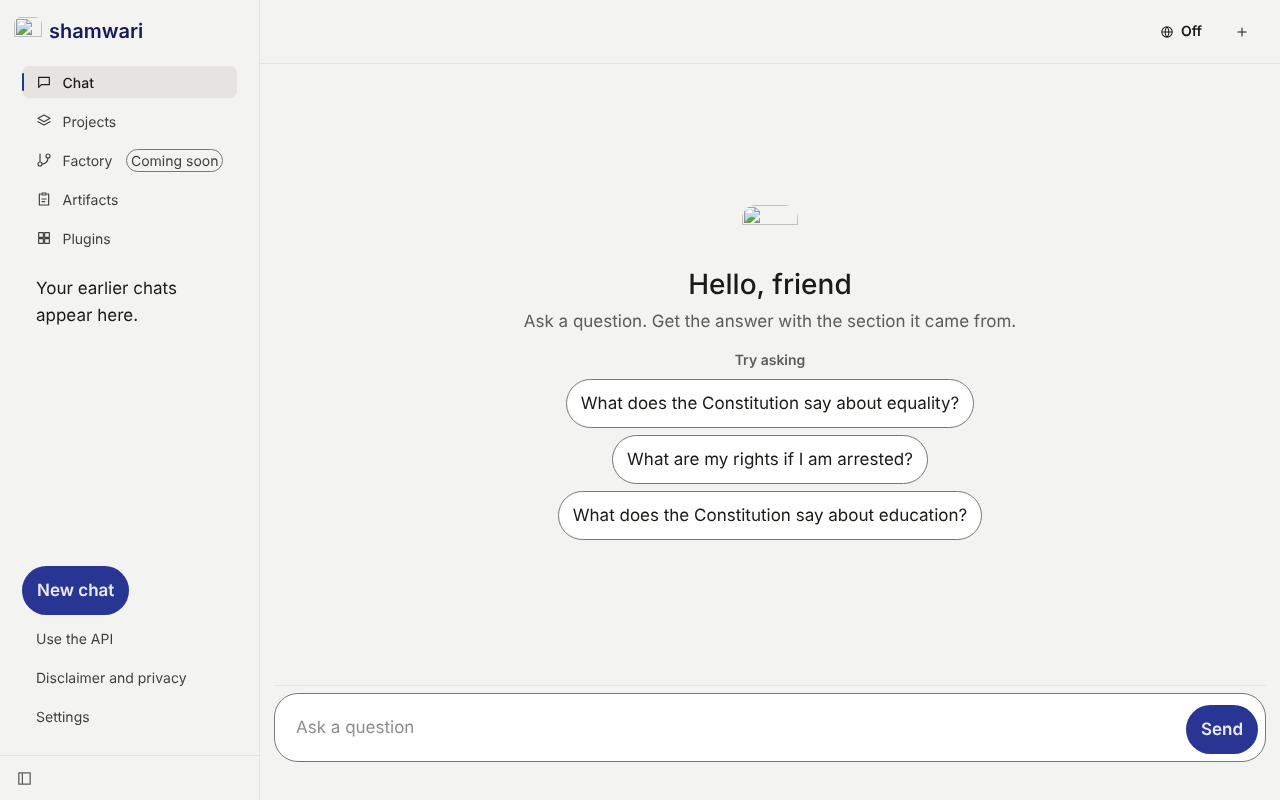
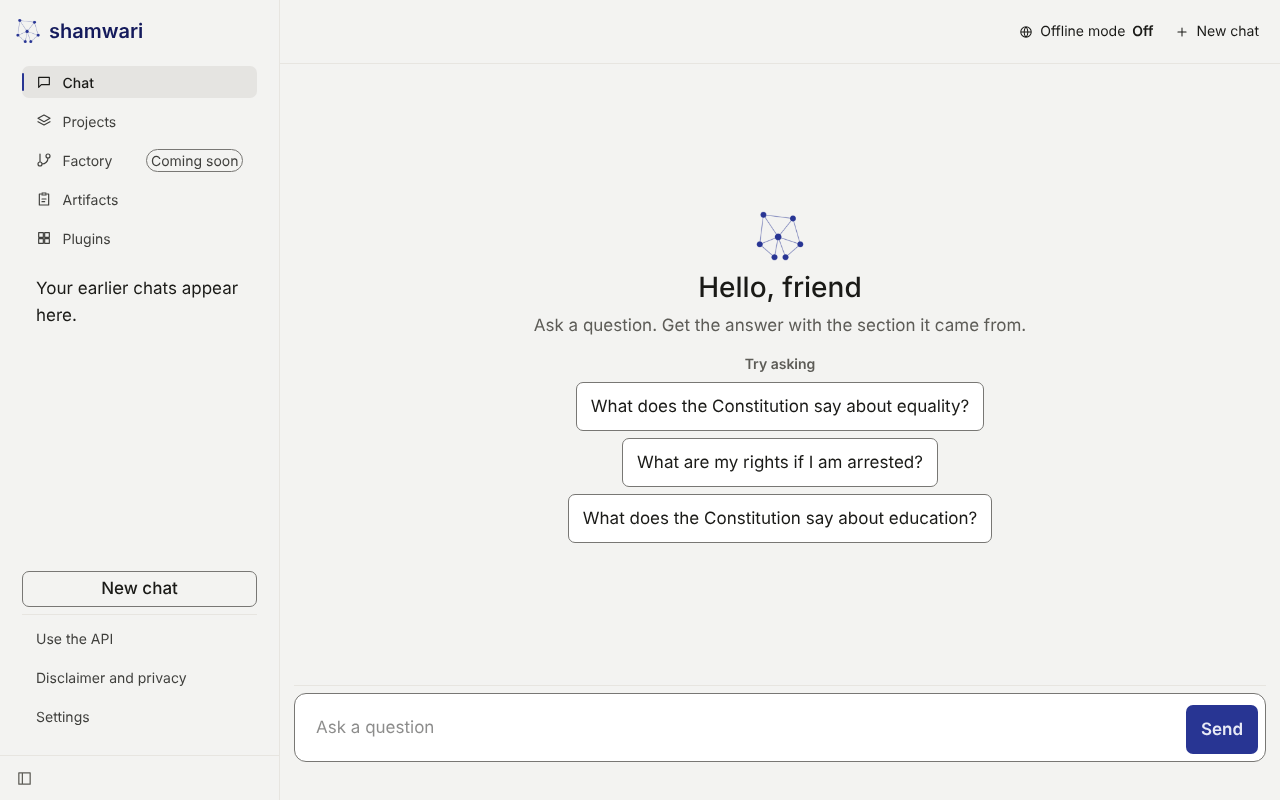
feat(lite): owner's drawer list: no mid-word wraps, fixed sidebar width, clutter into Settings, labelled top bar, small radius, quiet New chat
Rows wrap at spaces only and the Factory chip stays on one line; the sidebar is a 17.5rem column from 64rem; the version line and Install move into Settings; the top bar says Offline mode and New chat from 40rem (sr-only also clips with clip-path, which the override now clears); buttons, chips and the composer use the small radius; New chat is an outline, the foot rows sit under one hairline. Tests: no label wraps and no sideways scroll at 1000, 1280 and 1440 in light and dark, sidebar width, labels really drawn, no pills, hierarchy, clutter, muted text at 4.5:1 in both themes.

Claude-Session: https://claude.ai/code/session_0114U9k962C3ZtvAibSYjB7a

diff --git a/site/e2e-desktop/density.spec.ts b/site/e2e-desktop/density.spec.ts
@@ -71,3 +71,103 @@ for (const scheme of ['light', 'dark'] as const) {
     });
   });
 }
+
+// ---- the geometry guard: widths a desktop browser really has, light and dark ------------------------------------------------
+// No label wraps (a word is never broken, a chip stays on one line), nothing scrolls sideways, the sidebar is a fixed column wide
+// enough for its labels, the top bar's actions say what they are, and nothing is a marketing pill. At 1000px the drawer is a
+// popover (below 64rem) and keeps the touch size; from 1024px it is a column of 32px rows.
+
+/** How many lines a piece of text is drawn on: the number of distinct tops among its client rects. */
+const lines = (page: Page, selector: string) =>
+  page.locator(selector).evaluateAll((els) =>
+    els
+      .filter((e) => (e as HTMLElement).offsetParent !== null || getComputedStyle(e).position === 'fixed')
+      .map((e) => {
+        const range = document.createRange();
+        range.selectNodeContents(e);
+        const tops = new Set([...range.getClientRects()].filter((r) => r.width > 0).map((r) => Math.round(r.top)));
+        return { text: (e.textContent || '').trim().slice(0, 40), lines: tops.size };
+      }),
+  );
+
+for (const width of [1000, 1280, 1440]) {
+  for (const scheme of ['light', 'dark'] as const) {
+    test(`at ${width}px (${scheme}): no label wraps, nothing scrolls sideways, the sidebar and top bar are right`, async ({ page }) => {
+      await page.emulateMedia({ colorScheme: scheme });
+      await page.setViewportSize({ width, height: 800 });
+      await openChat(page);
+      const popover = width < 1024;
+      if (popover) await page.getByRole('button', { name: 'Open chats' }).click();
+      await page.waitForTimeout(400); // the drawer's slide
+
+      expect(await page.evaluate(() => document.documentElement.scrollWidth <= innerWidth + 1), 'no horizontal scroll').toBe(true);
+
+      // Every row label and chip is one line: "Factory" is not "Factor / y", "Coming soon" is not two lines.
+      // (the visible spans only: the screen-reader-only note on Use the API is clipped text, not a drawn line)
+      const labels = await lines(page, '.side-row > span:not(.sr-only)');
+      expect(labels.length).toBeGreaterThanOrEqual(8);
+      for (const l of labels) expect(l.lines, `"${l.text}" is on one line`).toBe(1);
+      const factory = await page.locator('.side-row.side-disabled').evaluate((el) => el.getBoundingClientRect().height);
+      expect(factory, 'the Factory row is one row high, chip included').toBeLessThanOrEqual(popover ? 50 : 33);
+
+      if (!popover) {
+        const w = await page.locator('[data-slot="app-sidebar"]').evaluate((el) => el.getBoundingClientRect().width);
+        expect(w, 'a fixed sidebar column of about 280px').toBeGreaterThanOrEqual(272);
+        expect(w).toBeLessThanOrEqual(288);
+      }
+      // The sidebar's own labels fit their rows without being cut (no horizontal overflow inside the drawer).
+      expect(await page.locator('.chats').evaluate((el) => el.scrollWidth <= el.clientWidth + 1), 'the drawer does not scroll sideways').toBe(true);
+
+      // The top bar says what its actions are (from 40rem up).
+      // Really drawn, not just present: a 1px clipped box counts as "visible" to Playwright, so measure the box and the clipping.
+      for (const sel of ['#offline-mode .bar-label', '#new-chat .bar-label']) {
+        const drawn = await page.locator(sel).evaluate((el) => {
+          const c = getComputedStyle(el);
+          const r = el.getBoundingClientRect();
+          return { w: r.width, h: r.height, clipPath: c.clipPath, overflow: c.overflow, clip: c.clip };
+        });
+        expect(drawn.w, `${sel} is drawn`).toBeGreaterThan(40);
+        expect(drawn.h, `${sel} is a line of text`).toBeGreaterThan(14);
+        expect(drawn.clipPath, `${sel} is not clipped away`).toBe('none');
+        expect(drawn.overflow).toBe('visible');
+      }
+      await expect(page.locator('#offline-mode')).toContainText('Offline mode');
+      await expect(page.locator('#offline-mode')).toContainText('Off');
+    });
+  }
+}
+
+test('no control is a marketing pill: buttons, suggestion chips, Send and New chat use the small radius', async ({ page }) => {
+  await openChat(page);
+  const radii = await page.evaluate(() => {
+    const r = (sel: string) => {
+      const el = document.querySelector(sel);
+      return el ? parseFloat(getComputedStyle(el).borderTopLeftRadius) : null;
+    };
+    return { newChat: r('#side-new'), send: r('#send'), chip: r('.btn.chip'), composer: r('.composer') };
+  });
+  for (const [name, v] of Object.entries(radii)) {
+    expect(v, name).not.toBeNull();
+    expect(v!, `${name} is not a pill`).toBeLessThanOrEqual(16);
+  }
+});
+
+test('hierarchy: New chat is a quiet outline, the composer is the filled control, the foot rows sit under one hairline', async ({ page }) => {
+  await openChat(page);
+  const bg = (sel: string) => page.locator(sel).first().evaluate((el) => getComputedStyle(el).backgroundColor);
+  expect(await bg('#side-new'), 'New chat has no fill').toBe('rgba(0, 0, 0, 0)');
+  expect(await bg('#send'), 'Send is the filled control').not.toBe('rgba(0, 0, 0, 0)');
+  const border = await page.locator('.side-nav').evaluate((el) => ({ w: parseFloat(getComputedStyle(el).borderTopWidth), s: getComputedStyle(el).borderTopStyle }));
+  expect(border.s).toBe('solid');
+  expect(border.w, 'one hairline').toBeGreaterThan(0);
+  expect(border.w).toBeLessThanOrEqual(1);
+});
+
+test('clutter is gone: the version line is in Settings (not the drawer foot) and Install is in Settings (not above the composer)', async ({ page }) => {
+  await openChat(page);
+  await expect(page.locator('.side-foot > .version-line')).toHaveCount(0);
+  await expect(page.locator('details.account .version-line')).toHaveCount(1);
+  await expect(page.locator('details.account #install')).toHaveCount(1);
+  await expect(page.locator('.thread #install, #empty #install')).toHaveCount(0);
+  await expect(page.locator('p.install')).toHaveCount(0);
+});

diff --git a/site/src/chat/chat.css b/site/src/chat/chat.css
@@ -45,8 +45,14 @@ body {
   z-index: 50;
   background: var(--card);
   padding: var(--inset-floor);
-  border-radius: 9999px;
+  border-radius: var(--radius-sm);
   min-height: var(--target-floor);
+}
+
+/* A fixed sidebar column on a desktop: wide enough for a 14px label such as "Disclaimer and privacy" on one line. (AppShell
+   defaults to 16.25rem, which wrapped "Factory" and its chip; claude.ai's is about the same as this.) */
+html [data-slot='app-shell'] {
+  --app-sidebar-w: 17.5rem;
 }
 
 /* ---- the frame's parts ------------------------------------------------------------------------------ */
@@ -207,7 +213,8 @@ select,
 input:not([type='checkbox']):not([type='radio']) {
   min-height: var(--target-floor);
   min-width: var(--target-floor);
-  border-radius: 9999px;
+  /* The small radius, as Mzizi's product controls have it: the pill is the marketing shape, not the app's. */
+  border-radius: var(--radius-sm);
   border: 1px solid var(--border-control, var(--border));
   background: var(--card);
   padding-inline: var(--inset-floor);
@@ -225,6 +232,19 @@ input:not([type='checkbox']):not([type='radio']) {
   white-space: nowrap;
 }
 /* The brand fill and its text come as a pair in both themes (Mzizi sodalite-brand / on-brand). */
+#side-new.btn.primary {
+  /* Hierarchy (deference): the drawer recedes and the composer is the one thing that is filled. New chat is a quiet
+     secondary button here: an outline, the foreground colour, no fill. */
+  background: transparent;
+  color: var(--foreground);
+  border: 1px solid var(--border-control, var(--border));
+  font-weight: 500;
+  min-height: var(--size-control);
+  inline-size: 100%;
+}
+#side-new.btn.primary:hover {
+  background: var(--muted);
+}
 .btn.primary {
   background: var(--color-sodalite-brand);
   color: var(--color-sodalite-on-brand);
@@ -381,7 +401,7 @@ input:not([type='checkbox']):not([type='radio']) {
   gap: var(--gap-floor);
   padding: var(--gap-floor) var(--gap-floor) var(--gap-floor) var(--inset-floor);
   border: 1px solid var(--border-control, var(--border));
-  border-radius: 24px;
+  border-radius: var(--radius-md);
   background: var(--card);
 }
 .composer textarea {
@@ -392,7 +412,7 @@ input:not([type='checkbox']):not([type='radio']) {
   border: 0;
   background: transparent;
   padding: var(--inset-floor) var(--gap-floor);
-  border-radius: 24px;
+  border-radius: var(--radius-md);
   line-height: var(--leading-floor);
 }
 .toast {
@@ -598,6 +618,9 @@ input:not([type='checkbox']):not([type='radio']) {
 .side-nav {
   display: grid;
   gap: var(--gap-floor);
+  /* The foot rows are muted and sit under one hairline (the same token as the composer's divider), no heavy container. */
+  border-top: 0.5px solid var(--border);
+  padding-top: var(--gap-floor);
 }
 .project > summary {
   display: flex;
@@ -605,7 +628,7 @@ input:not([type='checkbox']):not([type='radio']) {
   min-height: var(--target-floor);
   padding-inline: var(--inset-floor);
   cursor: pointer;
-  border-radius: 9999px;
+  border-radius: var(--radius-sm);
 }
 .project > .side-list,
 .project > .row {
@@ -736,7 +759,6 @@ main#main :where(.thread, .dock, .ask, #empty, .panel, .chat-tools) {
   margin: 0;
   font-size: var(--fs-caption);
   color: var(--muted-foreground);
-  text-align: center;
 }
 
 /* ---- the shell never scrolls -----------------------------------------------------------------------------
@@ -1032,6 +1054,21 @@ html[data-view='pending'] dialog {
   }
 }
 
+/* The top bar's actions say what they are from 40rem up ("Offline mode", "New chat"); below that only the icon shows and the
+   name stays for screen readers (the labels carry Tailwind's sr-only below that). The Tailwind sm:not-sr-only these used was
+   not in the build, so the labels never showed. */
+@media (min-width: 40rem) {
+  .sr-only.bar-label {
+    position: static;
+    inline-size: auto;
+    block-size: auto;
+    margin: 0;
+    overflow: visible;
+    clip: auto;
+    clip-path: none;
+  }
+}
+
 /* ---- the OFFLINE MODE switch, top right ----------------------------------------------------------------------
    A switch (role="switch", aria-checked), at the right of the top bar. Off it is a quiet action like the others; on, it is
    filled, and the page says so in words (#offline-mode-note), so the state never rests on colour. Below 40rem only the
@@ -1059,10 +1096,16 @@ html[data-view='pending'] dialog {
 
 /* In the drawer, a label that does not fit wraps (at 200% text "Delete history" is wider than the drawer), and the
    Plugins / Skills / MCP tabs wrap onto a second line instead of running off the screen. */
-.chats .btn,
-.chats .side-row {
+.chats .btn {
   white-space: normal;
   overflow-wrap: anywhere;
+}
+/* A row's label wraps at spaces when it must (large text) and never breaks inside a word: "Factory" is not "Factor / y". */
+.chats .side-row {
+  white-space: normal;
+  overflow-wrap: normal;
+  word-break: normal;
+  hyphens: manual;
 }
 .side-tabs {
   flex-wrap: wrap;

diff --git a/site/e2e/theme.spec.ts b/site/e2e/theme.spec.ts
@@ -96,3 +96,34 @@ test('the brand colour is the same sodalite family in both themes (the overlay c
     expect(c, `${scheme}: --primary is sodalite`).toBe(sod);
   }
 });
+
+// Muted text (captions, the group labels, the placeholder) must be readable in BOTH themes: at least 4.5:1 on the page and on
+// the hover fill. (The drawer's row labels use a stronger mix, held to 7:1 in drawer.spec.ts.) The values are asserted, not assumed.
+test('muted text is at least 4.5:1 on the background and on the hover fill, in light and in dark', async ({ page }) => {
+  await openChat(page);
+  const lum = (rgb: string) => {
+    const [r, g, b] = (rgb.match(/[\d.]+/g) ?? []).slice(0, 3).map(Number).map((v) => v / 255).map((v) => (v <= 0.03928 ? v / 12.92 : ((v + 0.055) / 1.055) ** 2.4));
+    return 0.2126 * r! + 0.7152 * g! + 0.0722 * b!;
+  };
+  const ratio = (a: string, b: string) => {
+    const [hi, lo] = [lum(a), lum(b)].sort((x, y) => y - x);
+    return (hi! + 0.05) / (lo! + 0.05);
+  };
+  for (const scheme of ['light', 'dark'] as const) {
+    await page.emulateMedia({ colorScheme: scheme });
+    const c = await page.evaluate(() => {
+      const resolve = (v: string) => {
+        const probe = document.createElement('i');
+        probe.style.color = `var(${v})`;
+        document.body.append(probe);
+        const out = getComputedStyle(probe).color;
+        probe.remove();
+        return out;
+      };
+      return { muted: resolve('--muted-foreground'), bg: resolve('--background'), fill: resolve('--muted'), fg: resolve('--foreground') };
+    });
+    expect(ratio(c.muted, c.bg), `${scheme}: muted text on the page`).toBeGreaterThanOrEqual(4.5);
+    expect(ratio(c.muted, c.fill), `${scheme}: muted text on the hover fill`).toBeGreaterThanOrEqual(4.5);
+    expect(ratio(c.fg, c.bg), `${scheme}: body text on the page`).toBeGreaterThanOrEqual(7);
+  }
+});

diff --git a/site/e2e/offline.spec.ts b/site/e2e/offline.spec.ts
@@ -289,7 +289,7 @@ test('a brief 503 while the queue drains keeps the question queued and sends it 
   expect(tries).toBe(2);
 });
 
-test('the install button is in plain view, survives a dismissed dialog, and goes when installed', async ({ page }) => {
+test('the install button is in Settings, survives a dismissed dialog, and goes when installed', async ({ page }) => {
   await openChat(page);
   await expect(page.locator('#install')).toBeHidden();
   const offer = () =>
@@ -299,9 +299,10 @@ test('the install button is in plain view, survives a dismissed dialog, and goes
       window.dispatchEvent(e);
     });
   await offer();
-  // Visible without opening Settings.
+  // It lives in Settings (not floating above the composer, not in the drawer's foot): open Settings to see it.
+  await expect(page.locator('#install')).toBeHidden();
+  await openAccount(page);
   await expect(page.locator('#install')).toBeVisible();
-  await expect(page.locator('details.account')).not.toHaveAttribute('open', '');
   await page.locator('#install').click(); // dialog dismissed: the event is spent
   await expect(page.locator('#install')).toBeHidden();
   await offer(); // the browser offers again later

diff --git a/docs/chat-app.md b/docs/chat-app.md
@@ -230,6 +230,11 @@ Developer keys for the mock: `sk_shamwari_mock_ok` answers; `_402`, `_403`,
   fill on hover, a stronger one and a marker on the open section) and 7px between rows. The foot rows (Use the API, Disclaimer and
   privacy, Settings) are text only, no icons. Tests: `e2e-desktop/density.spec.ts` (32px, flat, no icons, no overlap, light and
   dark) and `e2e/density-touch.spec.ts` (49px on touch at any width).
+- **Owner's list (2026-11-12), each with a test:** labels never break inside a word (rows wrap at spaces only, the chip stays on one
+  line, `e2e-desktop/density.spec.ts` at 1000, 1280 and 1440, light and dark); a fixed sidebar column of 17.5rem; the version line and
+  the Install button live in Settings, not the drawer's foot or above the composer; the top bar says "Offline mode" and "New chat"
+  from 40rem up; controls use the small radius, not the marketing pill; New chat is a quiet outline and the composer is the filled
+  control; the foot rows sit under one hairline; muted text is held to 4.5:1 in both themes (`e2e/theme.spec.ts`).
 - **Why not `SideNav`:** the package's `SideNav` renders links with tooltips and 44px touch rows; the drawer needs in-page section
   buttons (`aria-current` follows the open section), a non-interactive "coming soon" row and a different set of foot rows, so
   the rows are the chat's own, built from the same tokens, not from numbers of its own.
